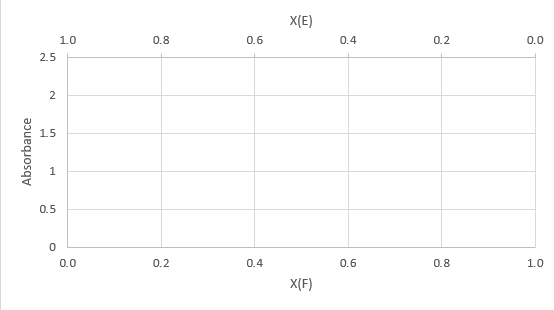
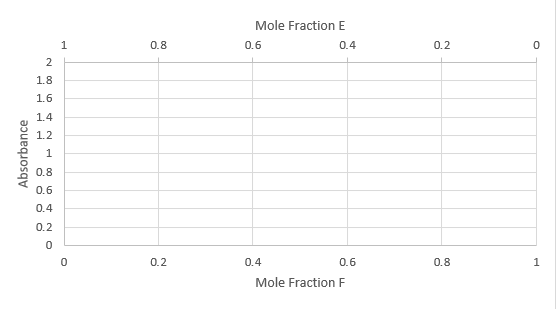
fixed graphs

Changed region(s): [[0.0307, 0.0291, 0.9819, 0.8738], [0.4603, 0.9029, 0.6137, 0.932]]

diff --git a/src/scripts/scenes/spec.ts b/src/scripts/scenes/spec.ts
@@ -57,6 +57,7 @@ export default class SpecScene extends Phaser.Scene {
   private helpButton: button;
   private helpOutline: buttonOutline;
   private oldDataPoints: any;
+  private dot: any;
 
   constructor() {
     super({ key: 'SpecScene' });
@@ -97,11 +98,11 @@ export default class SpecScene extends Phaser.Scene {
     this.sPLabel=this.add.bitmapText(600, 250, "calibriFont");
     this.sPLabel.fontSize=20;
 
-    this.absGraphAB=this.add.image(600, 120, "absGraphAB");
+    this.absGraphAB=this.add.image(600, 115, "absGraphAB");
     this.absGraphAB.setScale(0.65);
-    this.absGraphCD=this.add.image(600, 120, "absGraphCD");
+    this.absGraphCD=this.add.image(600, 115, "absGraphCD");
     this.absGraphCD.setScale(0.65);
-    this.absGraphEF=this.add.image(600, 120, "absGraphEF");
+    this.absGraphEF=this.add.image(600, 115, "absGraphEF");
     this.absGraphEF.setScale(0.65);
     this.changeGraphs();
 
@@ -168,6 +169,10 @@ export default class SpecScene extends Phaser.Scene {
     if (this.oldDataPoints.length>0){
       this.drawDataPoints();
     }
+    
+    
+    this.dot=this.add.image(769, 175, "blackCircle");
+    this.dot.setScale(0.05);
   }
 
   createCuvettes(){
@@ -317,7 +322,7 @@ export default class SpecScene extends Phaser.Scene {
       }
     }
     if (this.selectedRxn=="CD"||this.selectedRxn=="EF"){
-      this.abs=0;
+      this.abs=0.0001;
     }
     this.changeCuvette();
     this.updateAbs();
@@ -336,8 +341,8 @@ export default class SpecScene extends Phaser.Scene {
 
   graphPoint(){
     let MFB=this.findMF();
-    let x=464+MFB*304;
-    let y=180-(this.abs/2.5)*124;
+    let x=461+MFB*308;
+    let y=175-(this.abs/2)*120;
     for (let i=0; i<this.dataList.length; i++){
       if (y==this.dataList[i].getY()){
         return;
@@ -370,10 +375,10 @@ export default class SpecScene extends Phaser.Scene {
       this.mRLabel.text="Latest Data Point: \nX(A): "+ (1-this.findMF()).toFixed(2)+"\nX(B): "+(this.findMF()).toFixed(2)+"\nA: "+(this.abs.toFixed(2));
     }
     if (this.selectedRxn=="CD"){
-      this.mRLabel.text="Latest Data Point: \nX(C): "+ (1-this.findMF()).toFixed(2)+"\nX(D): "+(this.findMF()).toFixed(2)+"\nA: "+(this.abs);
+      this.mRLabel.text="Latest Data Point: \nX(C): "+ (1-this.findMF()).toFixed(2)+"\nX(D): "+(this.findMF()).toFixed(2)+"\nA: "+(this.abs.toFixed(2));
     }
     if (this.selectedRxn=="EF"){
-      this.mRLabel.text="Latest Data Point: \nX(E): "+ (1-this.findMF()).toFixed(2)+"\nX(F): "+(this.findMF()).toFixed(2)+"\nA: "+(this.abs);
+      this.mRLabel.text="Latest Data Point: \nX(E): "+ (1-this.findMF()).toFixed(2)+"\nX(F): "+(this.findMF()).toFixed(2)+"\nA: "+(this.abs).toFixed(2);
     }
   }
   

diff --git a/src/scripts/scenes/temp.ts b/src/scripts/scenes/temp.ts
@@ -54,6 +54,7 @@ export default class TempScene extends Phaser.Scene {
   private helpButton: button;
   private helpOutline: buttonOutline;
   private oldDataPoints: any;
+  private dot: any;
 
   constructor() {
     super({ key: 'TempScene' });
@@ -205,11 +206,11 @@ export default class TempScene extends Phaser.Scene {
   }
 
   createGraphs(){
-    this.tempGraphAB=this.add.image(600, 120, "tempGraphAB");
+    this.tempGraphAB=this.add.image(600, 115, "tempGraphAB");
     this.tempGraphAB.setScale(0.65);
-    this.tempGraphCD=this.add.image(600, 120, "tempGraphCD");
+    this.tempGraphCD=this.add.image(600, 115, "tempGraphCD");
     this.tempGraphCD.setScale(0.65);
-    this.tempGraphEF=this.add.image(600, 120, "tempGraphEF");
+    this.tempGraphEF=this.add.image(600, 115, "tempGraphEF");
     this.tempGraphEF.setScale(0.65);
     this.changeGraphs();
   }
@@ -315,10 +316,10 @@ export default class TempScene extends Phaser.Scene {
 
   graphPoint(){
     let MFB=this.findMF();
-    let x=467+MFB*302;
+    let x=463+MFB*305;
     console.log("x: " + x);
     console.log("temp change: " + this.tempChange);
-    let y=180-124*(1-this.tempChange/4);
+    let y=175-120*(1-this.tempChange/4);
     console.log("y: "+ y);
     for (let i=0; i<this.dataList.length; i++){
       if (y==this.dataList[i].getY()){

diff --git a/src/scripts/scenes/precip.ts b/src/scripts/scenes/precip.ts
@@ -61,6 +61,7 @@ export default class PrecipScene extends Phaser.Scene {
   private helpButton: button;
   private helpOutline: buttonOutline;
   private oldDataPoints: any;
+  private dot: any;
 
   constructor() {
     super({ key: 'PrecipScene' });
@@ -214,11 +215,11 @@ export default class PrecipScene extends Phaser.Scene {
   }
 
   createGraphs(){
-    this.precipGraphAB=this.add.image(600, 120, "precipGraphAB");
+    this.precipGraphAB=this.add.image(600, 115, "precipGraphAB");
     this.precipGraphAB.setScale(0.65);
-    this.precipGraphCD=this.add.image(600, 120, "precipGraphCD");
+    this.precipGraphCD=this.add.image(600, 115, "precipGraphCD");
     this.precipGraphCD.setScale(0.65);
-    this.precipGraphEF=this.add.image(600, 120, "precipGraphCD");
+    this.precipGraphEF=this.add.image(600, 115, "precipGraphCD");
     this.precipGraphEF.setScale(0.65);
     this.changeGraphs();
   }
@@ -330,8 +331,8 @@ export default class PrecipScene extends Phaser.Scene {
   graphPoint(){
     //MFB = mole fraction B
     let MFB=this.findMF();
-    let x=463+MFB*303;
-    let y=181-124*(this.mass/4);
+    let x=463+MFB*307;
+    let y=175-120*(this.mass/4);
     for (let i=0; i<this.dataList.length; i++){
       if (y==this.dataList[i].getY()){
         return;

diff --git a/src/scripts/scenes/exampleMCV.ts b/src/scripts/scenes/exampleMCV.ts
@@ -67,7 +67,7 @@ export default class exampleMCV extends Phaser.Scene{
     this.add.text(120, 55, "H", {fontSize: "25px", color: "#9b00e3", fontFamily: "Calibri", fontStyle: "bold"});
     
     this.graphGH=this.add.image(600, 115, "absGraphGH");
-    this.graphGH.setScale(0.54);
+    this.graphGH.setScale(.65);
 
     this.mLs=0;
     this.mLsLabel = this.add.bitmapText(195, 55, "calibriFont");
@@ -130,7 +130,6 @@ export default class exampleMCV extends Phaser.Scene{
     this.backButton.on('pointerout', ()=>this.backOutline.exitHoverState("word"), this);
 
     this.add.text(180, 120, "[All solutions]=0.0006M", {fill: "000000", fontFamily: "Calibri"});
-
 
     this.add.text(450, 220, "Mouse over a point for full data", {fill: "000000", fontFamily: "Calibri"});
 }
@@ -246,7 +245,7 @@ export default class exampleMCV extends Phaser.Scene{
 
     graphPoint(){
         let MFB=this.findMF();
-        let x=465+MFB*301;
+        let x=461+MFB*308;
         let y=175-(this.abs/2)*120;
     
         this.newestDP = new dataPoint(this, x, y, this.abs, MFB, this.selectedRxn, "Spec"); 

diff --git a/src/scripts/scenes/preloadScene.ts b/src/scripts/scenes/preloadScene.ts
@@ -136,6 +136,6 @@ export default class PreloadScene extends Phaser.Scene {
   }
 
   create() {
-    this.scene.start('TempScene', ['EF', []]);
+    this.scene.start('SpecScene', ['EF', []]);
   }
 }
